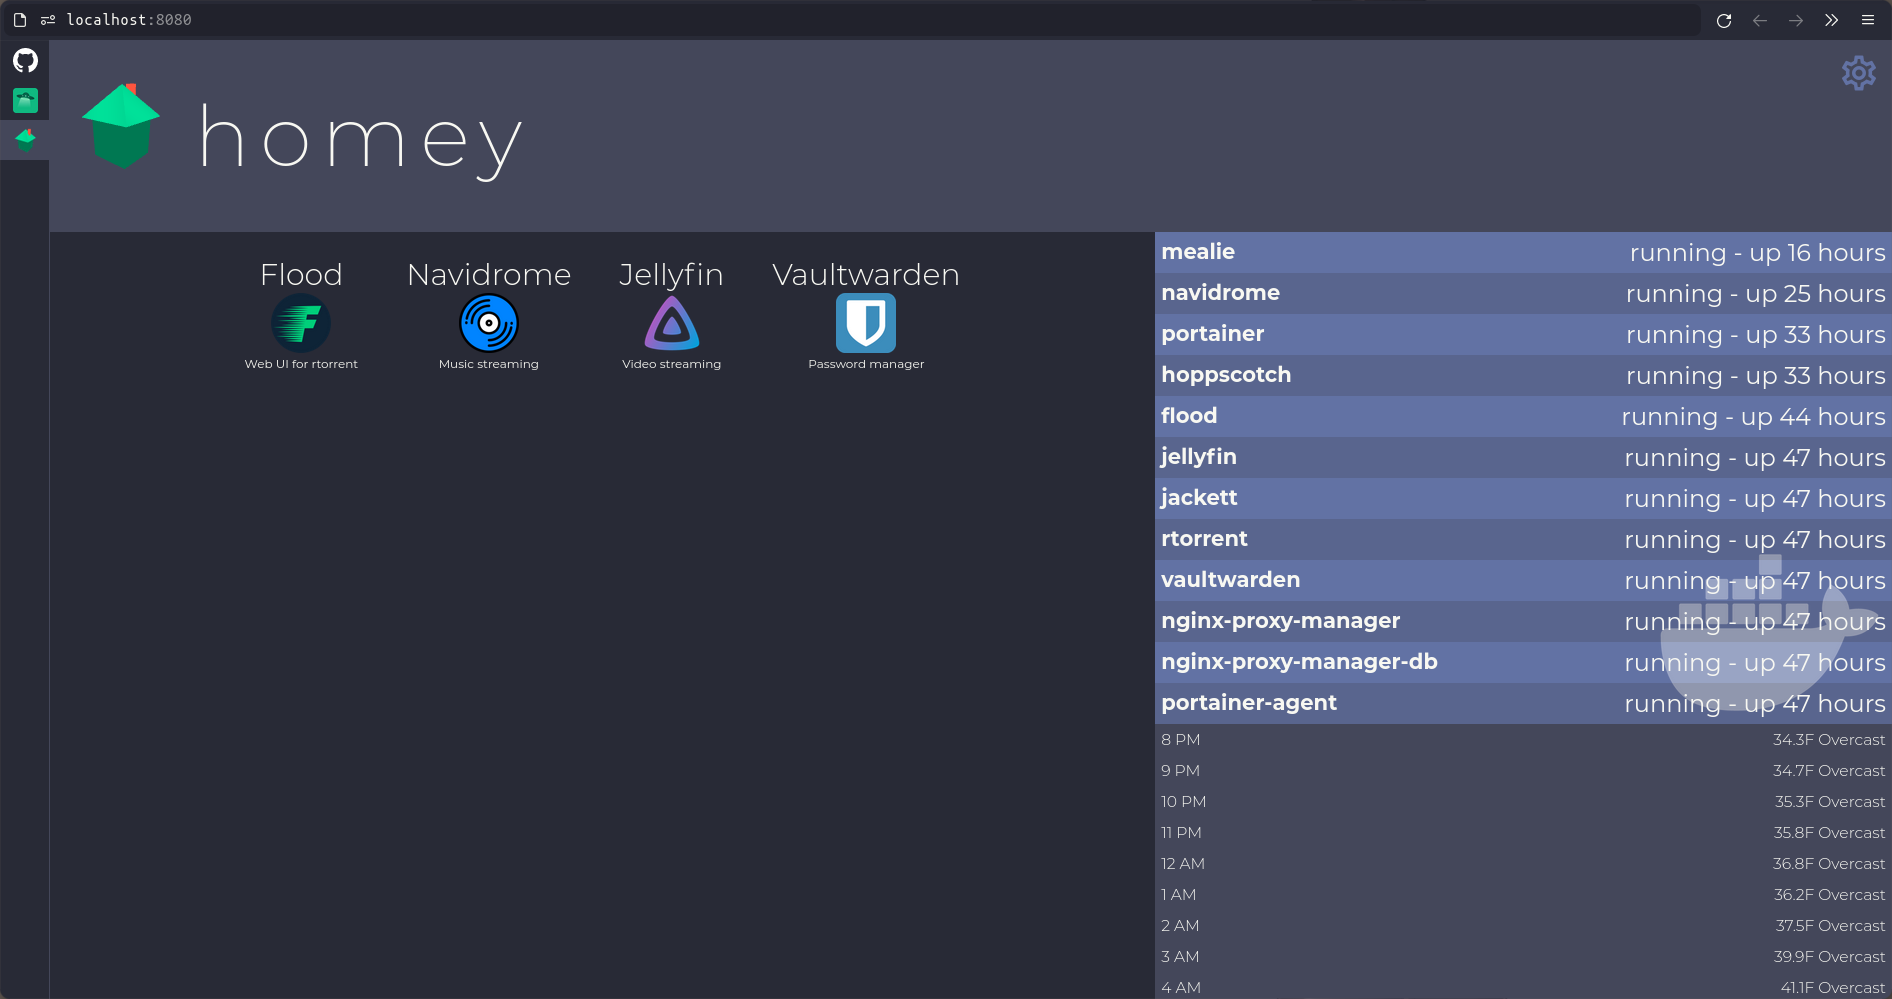
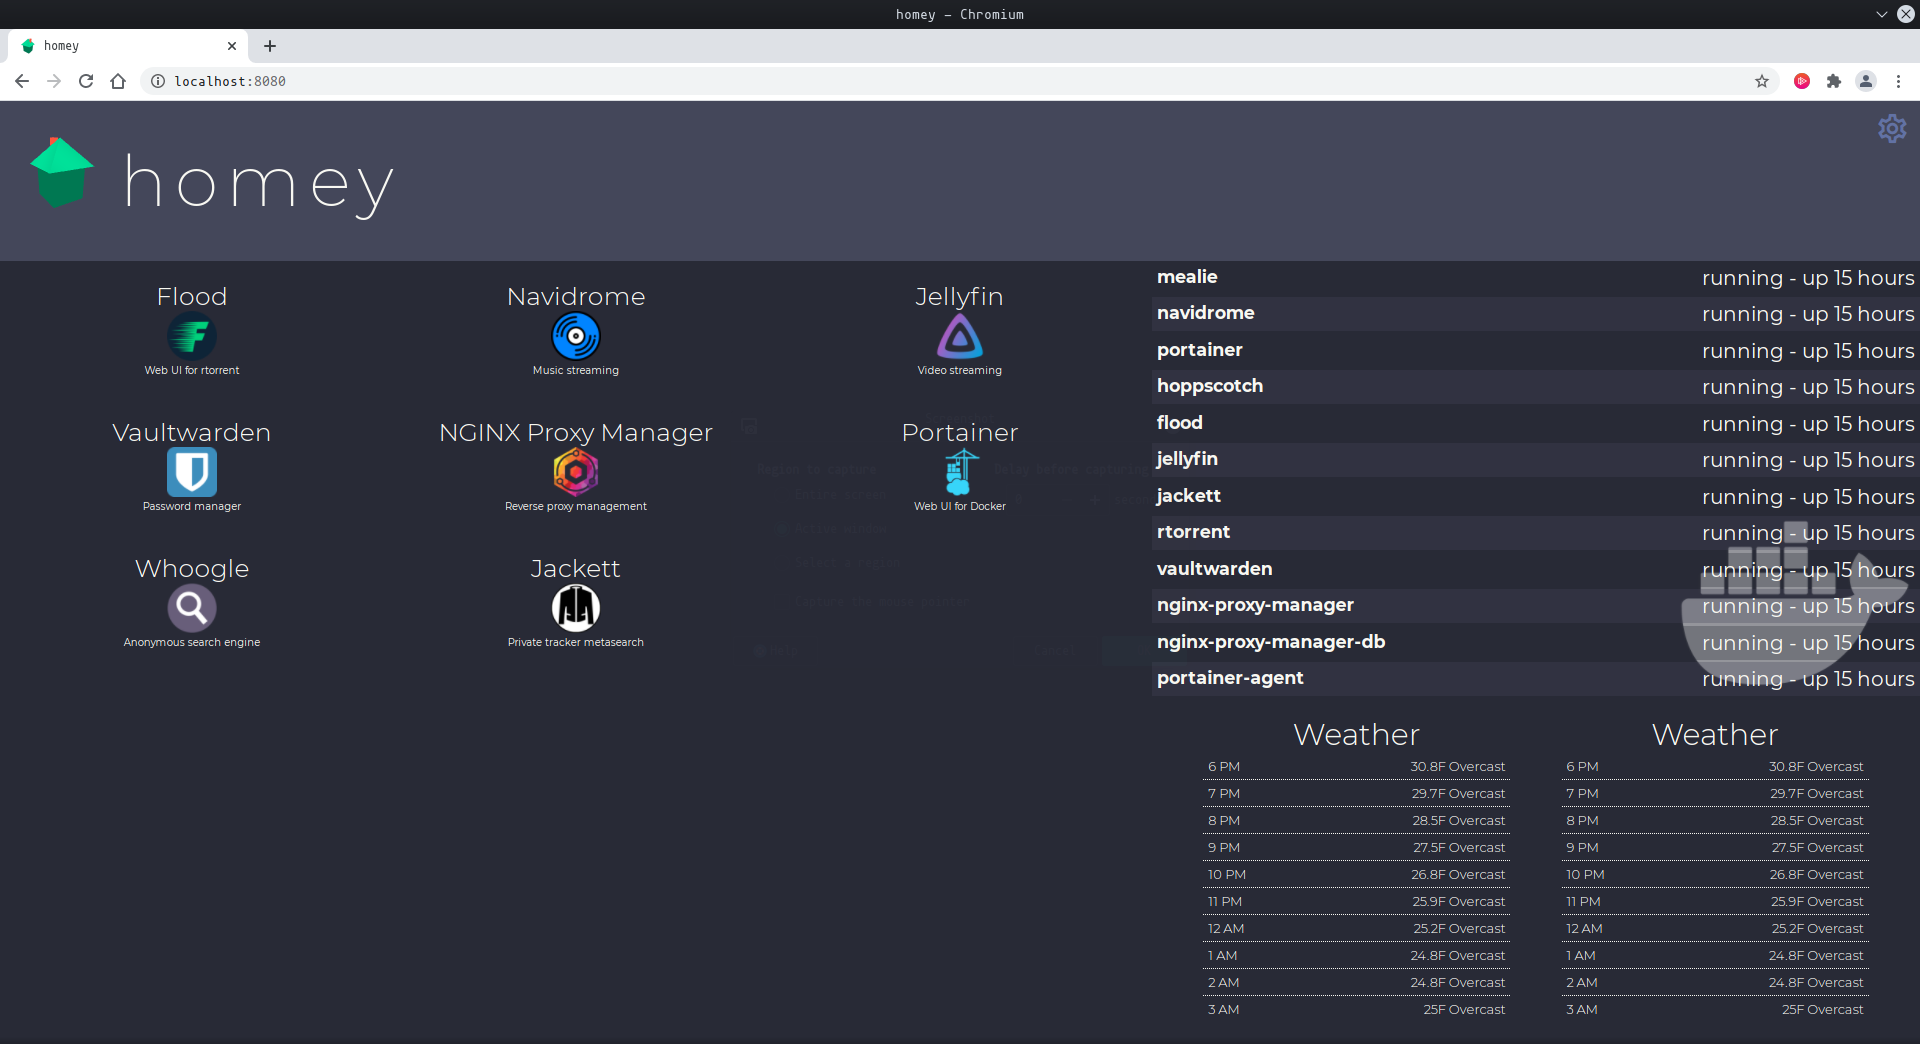
New screenshot

diff --git a/public/css/style.css b/public/css/style.css
@@ -106,7 +106,6 @@ h2 {
   grid-column: 2;
   display: flex;
   justify-content: space-evenly;
-  background-color: #44475a;
   text-align: center; }
 
 .weather-card-container {
@@ -114,7 +113,8 @@ h2 {
   font-size: 1.3rem;
   width: 40%;
   text-align: left;
-  padding-top: 2rem; }
+  padding-top: 2rem;
+  padding-bottom: 2rem; }
   .weather-card-container h2 {
     text-align: center; }
   .weather-card-container span {
@@ -122,16 +122,15 @@ h2 {
   .weather-card-container div {
     padding: 0.5rem; }
     .weather-card-container div:not(:nth-child(2)) {
-      border-top: 1px solid #f8f8f2; }
+      border-top: 1px dotted #f8f8f2; }
 
 .service-container {
   grid-row: 2 / 4;
   grid-column: 1;
   display: grid;
   grid-template-columns: 1fr 1fr 1fr;
-  grid-template-rows: 1fr 1fr 1fr 1fr 1fr 1fr 1fr;
+  grid-template-rows: 1fr 1fr 1fr 1fr 1fr 1fr;
   justify-content: center;
-  background-color: #282a36;
   text-align: center; }
 
 .service-card-container {
@@ -148,7 +147,7 @@ h2 {
   grid-column: 2;
   display: flex;
   flex-direction: column;
-  background-color: #6272a4;
+  justify-content: space-between;
   background-image: url("../images/docker-large.png");
   background-size: 30%;
   background-repeat: no-repeat;
@@ -159,7 +158,7 @@ h2 {
   font-size: 1.5rem;
   display: flex;
   justify-content: space-between;
-  background-color: rgba(98, 114, 164, 0.3); }
+  background-color: rgba(40, 42, 54, 0.3); }
   .docker-card-container span {
     font-size: 2rem; }
 

diff --git a/src/components/WeatherCard.vue b/src/components/WeatherCard.vue
@@ -1,7 +1,7 @@
 <template>
   <div class="weather-card-container">
     <h2>Weather</h2>
-    <div v-for="w in weatherData.slice(0, 12)" :key="w.time" class="weatherElement" >{{w.time}}<span>{{w.temp}}F {{w.weather_type}}</span></div>
+    <div v-for="w in weatherData" :key="w.time" class="weatherElement" >{{w.time}}<span>{{w.temp}}F {{w.weather_type}}</span></div>
   </div>
 </template>
 
@@ -19,7 +19,7 @@ export default {
   methods: {
     getHourlyWeather: function() {
         this.axios.get('http://0.0.0.0:9101/weatherHourly/20211207').then((res) => {
-          this.weatherData = res.data
+          this.weatherData = res.data.slice(0,10)
       }).catch(e => {
         console.log('Could not reach homey API');
       });

diff --git a/sass/_docker.scss b/sass/_docker.scss
@@ -5,8 +5,8 @@
     // Temporary!
     display: flex;
     flex-direction: column;
+    justify-content: space-between;
 
-    background-color: $commentColor;
     background-image: url('../images/docker-large.png');
     background-size: 30%;
     background-repeat: no-repeat;
@@ -20,7 +20,7 @@
     // temporary!
     display: flex;
     justify-content: space-between;
-    background-color: rgba($commentColor, 0.3);
+    background-color: rgba($backgroundColor, 0.3);
 
     & span {
         font-size: 2rem;

diff --git a/sass/_cards.scss b/sass/_cards.scss
@@ -4,8 +4,6 @@
 
     display: flex;
     justify-content: space-evenly;
-
-    background-color: $backgroundColor2;
     text-align: center;
 }
 
@@ -15,6 +13,7 @@
     width: 40%;
     text-align: left;
     padding-top: 2rem;
+    padding-bottom: 2rem;
 
     & h2 {
         text-align: center;
@@ -27,7 +26,8 @@
         padding: 0.5rem;
         
         &:not(:nth-child(2)){
-            border-top: 1px solid $white;
+            border-top: 1px dotted $white;
+            
         }
     }
 }

diff --git a/sass/_services.scss b/sass/_services.scss
@@ -2,13 +2,11 @@
     grid-row: 2 / 4;
     grid-column: 1;
 
-    // Temporary!
     display: grid;
     grid-template-columns: 1fr 1fr 1fr;
-    grid-template-rows: 1fr 1fr 1fr 1fr 1fr 1fr 1fr;
+    grid-template-rows: 1fr 1fr 1fr 1fr 1fr 1fr;
+    
     justify-content: center;
-
-    background-color: $backgroundColor;
     text-align: center;
 }
 
